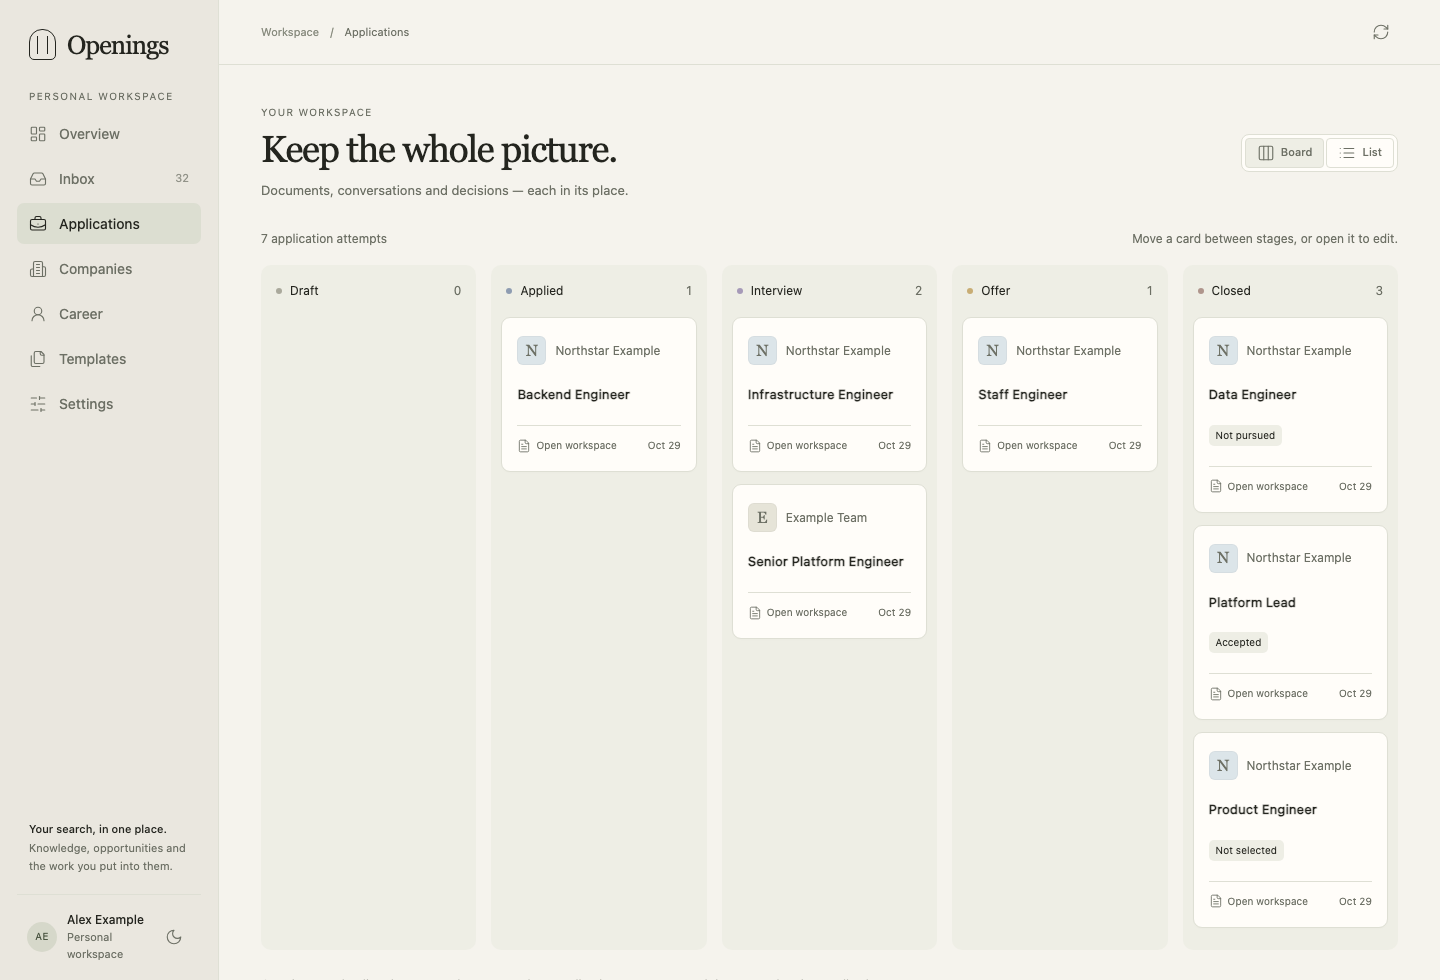
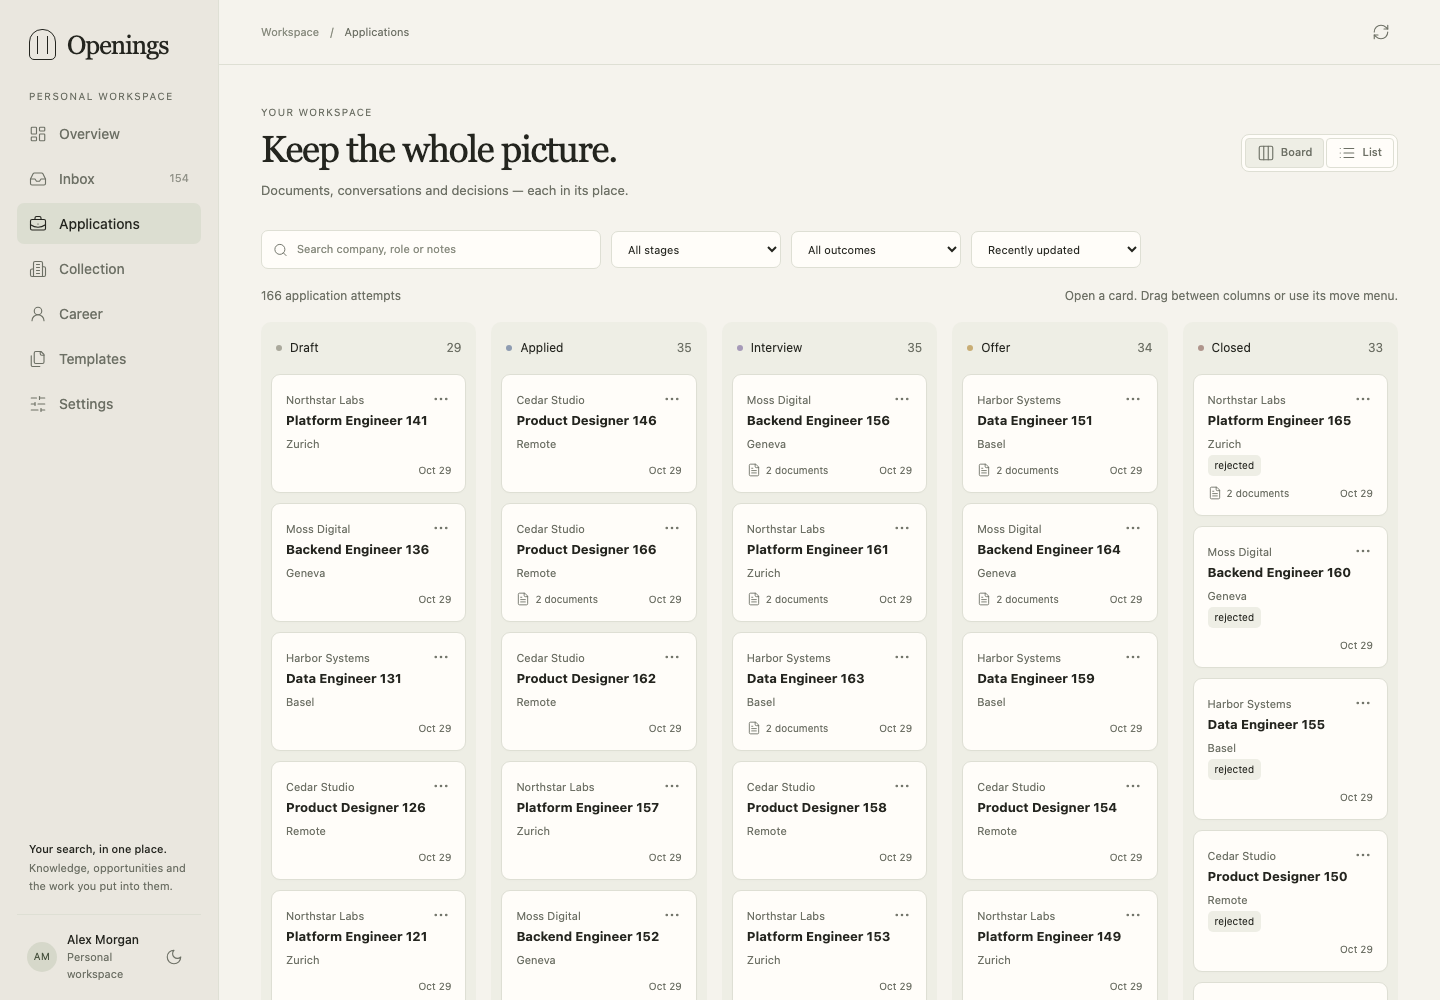
docs: refresh product screenshots for the compact dashboard

diff --git a/README.md b/README.md
@@ -21,6 +21,13 @@ application documents and progress tracking, in one portable SQLite database.
 | **Controlled automation:** schedules, global pause, request budgets, cooldowns and visible task results. | **Application tracking:** list/Kanban, independent attempts and a funnel based on recorded progress. |
 | **Optional fit scoring:** a separate CPU classifier or compatible remote service. | **One portable archive:** SQLite stores records and file bytes; back up or move the workspace. |
 
+<details>
+<summary>See the application board</summary>
+
+![Compact application board with company, role, location, documents and recorded stages](docs/images/applications.png)
+
+</details>
+
 ### Your dashboard. Your scripts. Your agent.
 
 Use the **dashboard** by hand, the **REST API** for scripts, or **MCP** with your
